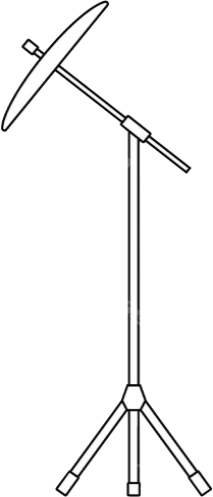
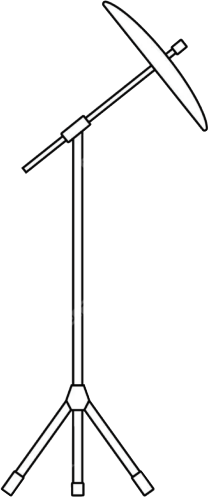
draw drum adjust

Changed region(s): [[0.0, 0.0, 1.0, 1.0]]

diff --git a/lib/screens/player/drum_part_badge.dart b/lib/screens/player/drum_part_badge.dart
@@ -10,109 +10,136 @@ class DrumOverlayView extends StatelessWidget {
   final List<String> selectedParts;
   final Color highlightColor;
 
-  // Orijinal görsel 400x350 → buraya göre % oranlar
-  static const Map<String, Offset> relativePositions = {
-    'Crash Cymbal': Offset(0.05, 0.04), // soldaki eğik zil
-    'Hi-Hat': Offset(0.73, 0.42), // sağdaki üst üste duran ziller
-    'Ride Cymbal': Offset(0.90, 0.05), // sağ üstteki büyük zil
-    'Snare Drum': Offset(0.24, 0.58), // sol alttaki küçük trampet
-    'Kick Drum': Offset(0.47, 0.62), // ortadaki büyük davul
-    'Tom 1': Offset(0.40, 0.26), // sol üst tom
-    'Tom 2': Offset(0.55, 0.26), // sağ üst tom
-    'Tom Floor': Offset(0.71, 0.58), // sağ alttaki tom
+  static const Map<String, _PartPosition> _partData = {
+    'Crash Cymbal': _PartPosition(
+      assetPath: 'assets/images/draw/crash.png',
+      offset: Offset(-0.1, 0.4),
+      sizeRatio: Size(0.5, 0.5),
+    ),
+    'Hi-Hat': _PartPosition(
+      assetPath: 'assets/images/draw/hihat.png',
+      offset: Offset(-0.05, 0.55),
+      sizeRatio: Size(0.5, 0.35),
+    ),
+    'Snare Drum': _PartPosition(
+      assetPath: 'assets/images/draw/snare.png',
+      offset: Offset(0.22, 0.7),
+      sizeRatio: Size(0.2, 0.2),
+    ),
+    'Tom 1': _PartPosition(
+      assetPath: 'assets/images/draw/tom1.png',
+      offset: Offset(0.3, 0.38),
+      sizeRatio: Size(0.2, 0.4),
+    ),
+    'Tom 2': _PartPosition(
+      assetPath: 'assets/images/draw/tom2.png',
+      offset: Offset(0.56, 0.38),
+      sizeRatio: Size(0.2, 0.4),
+    ),
+    'Tom Floor': _PartPosition(
+      assetPath: 'assets/images/draw/tomFloor.png',
+      offset: Offset(0.64, 0.7),
+      sizeRatio: Size(0.2, 0.2),
+    ),
+    'Ride Cymbal': _PartPosition(
+      assetPath: 'assets/images/draw/ride.png',
+      offset: Offset(0.63, 0.4),
+      sizeRatio: Size(0.5, 0.5),
+    ),
+    'Kick Drum': _PartPosition(
+      assetPath: 'assets/images/draw/kick.png',
+      offset: Offset(0.33, 0.48),
+      sizeRatio: Size(0.4, 0.5),
+    ),
   };
 
   @override
-  Widget build(BuildContext context) => Column(
+  Widget build(BuildContext context) {
+    final screenHeight = MediaQuery.of(context).size.height;
+
+    return Center(
+      child: Column(
         children: [
-          // Etiketler üstte
           if (selectedParts.isNotEmpty)
-            Padding(
-              padding: const EdgeInsets.only(bottom: 16),
-              child: Wrap(
-                spacing: 8,
-                runSpacing: 8,
-                alignment: WrapAlignment.center,
-                children: selectedParts
-                    .map(
-                      (part) => Container(
-                        padding: const EdgeInsets.symmetric(
-                          horizontal: 8,
-                          vertical: 4,
-                        ),
-                        decoration: BoxDecoration(
-                          color: highlightColor.withAlpha(51),
-                          border: Border.all(color: highlightColor, width: 2),
-                          borderRadius: BorderRadius.circular(12),
-                        ),
-                        child: Text(
-                          part,
-                          style: TextStyle(
-                            color: highlightColor,
-                            fontWeight: FontWeight.w600,
-                          ),
+            Wrap(
+              spacing: 8,
+              runSpacing: 8,
+              alignment: WrapAlignment.center,
+              children: selectedParts
+                  .map(
+                    (part) => Container(
+                      padding: const EdgeInsets.symmetric(
+                        horizontal: 8,
+                        vertical: 4,
+                      ),
+                      decoration: BoxDecoration(
+                        color: highlightColor.withAlpha(51),
+                        border: Border.all(color: highlightColor, width: 2),
+                        borderRadius: BorderRadius.circular(12),
+                      ),
+                      child: Text(
+                        part,
+                        style: TextStyle(
+                          color: highlightColor,
+                          fontWeight: FontWeight.w600,
                         ),
                       ),
-                    )
-                    .toList(),
-              ),
-            ),
-
-          // Görsel ve Highlight
-          // Görsel ve Highlight
-          AspectRatio(
-            aspectRatio: 400 / 350, // Orijinal görsel oranı
-            child: LayoutBuilder(
-              builder: (context, constraints) {
-                final imageWidth = constraints.maxWidth;
-                final imageHeight = constraints.maxHeight;
-
-                return Stack(
-                  children: [
-                    Image.asset(
-                      'assets/images/drum-set.png',
-                      fit: BoxFit.contain,
-                      width: imageWidth,
-                      height: imageHeight,
                     ),
-                    ...selectedParts.map((part) {
-                      final relOffset = relativePositions[part];
-                      if (relOffset == null) return const SizedBox.shrink();
+                  )
+                  .toList(),
+            ),
+          SizedBox(
+            height: screenHeight *
+                0.5, // iPhone 13 Pro için yaklaşık 1519px × 830px
+            child: AspectRatio(
+              aspectRatio: 1024 / 559,
+              child: LayoutBuilder(
+                builder: (context, constraints) {
+                  final width = constraints.maxWidth;
+                  final height = constraints.maxHeight;
 
-                      final dx = relOffset.dx * imageWidth;
-                      final dy = relOffset.dy * imageHeight;
+                  return Stack(
+                    children: _partData.entries.map((entry) {
+                      final isSelected = selectedParts.contains(entry.key);
+                      final data = entry.value;
+
+                      final left = data.offset.dx * width;
+                      final top = data.offset.dy * height;
+                      final w = data.sizeRatio.width * width;
+                      final h = data.sizeRatio.height * height;
 
                       return Positioned(
-                        left: dx,
-                        top: dy,
-                        child: _HighlightBox(
-                          color: highlightColor,
-                          size:
-                              imageWidth * 0.08, // Responsive highlight boyutu
+                        left: left,
+                        top: top,
+                        width: w,
+                        height: h,
+                        child: Image.asset(
+                          data.assetPath,
+                          fit: BoxFit.contain,
+                          color:
+                              isSelected ? highlightColor.withAlpha(140) : null,
+                          colorBlendMode: isSelected ? BlendMode.srcATop : null,
                         ),
                       );
-                    }),
-                  ],
-                );
-              },
+                    }).toList(),
+                  );
+                },
+              ),
             ),
           ),
         ],
-      );
+      ),
+    );
+  }
 }
 
-class _HighlightBox extends StatelessWidget {
-  const _HighlightBox({this.color = Colors.red, this.size = 40});
-  final Color color;
-  final double size;
-
-  @override
-  Widget build(BuildContext context) => Container(
-        width: size,
-        height: size,
-        decoration: BoxDecoration(
-          color: color.withAlpha(77),
-          shape: BoxShape.circle,
-        ),
-      );
+class _PartPosition {
+  const _PartPosition({
+    required this.assetPath,
+    required this.offset,
+    required this.sizeRatio,
+  });
+  final String assetPath;
+  final Offset offset;
+  final Size sizeRatio;
 }
